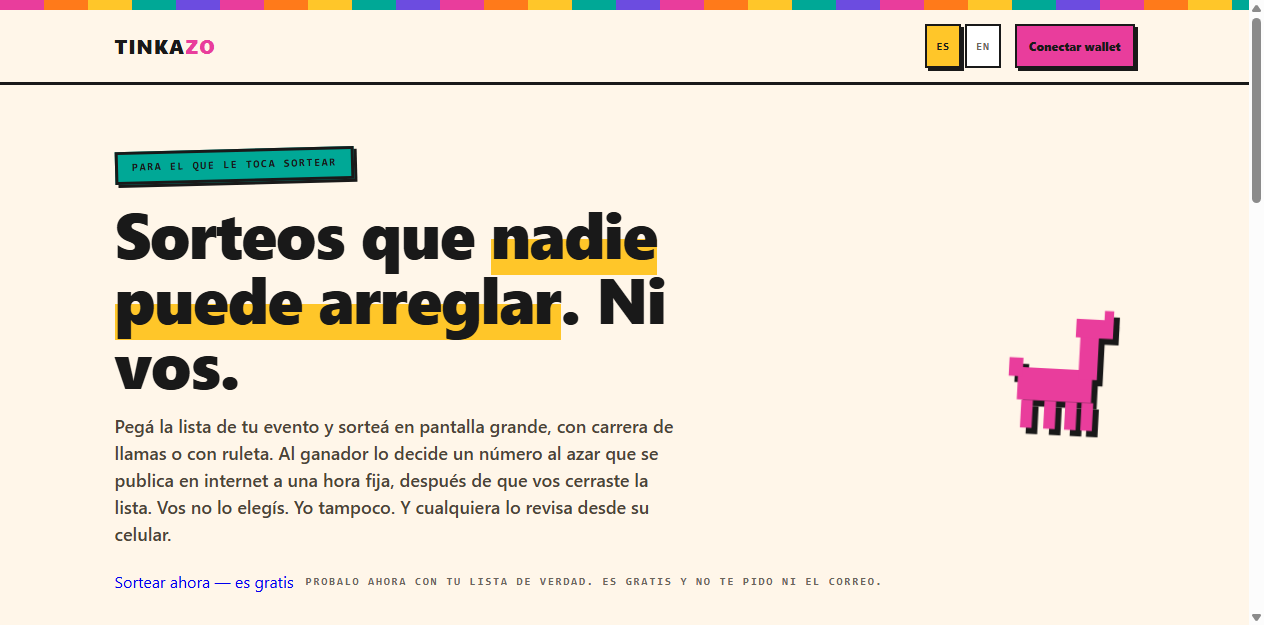
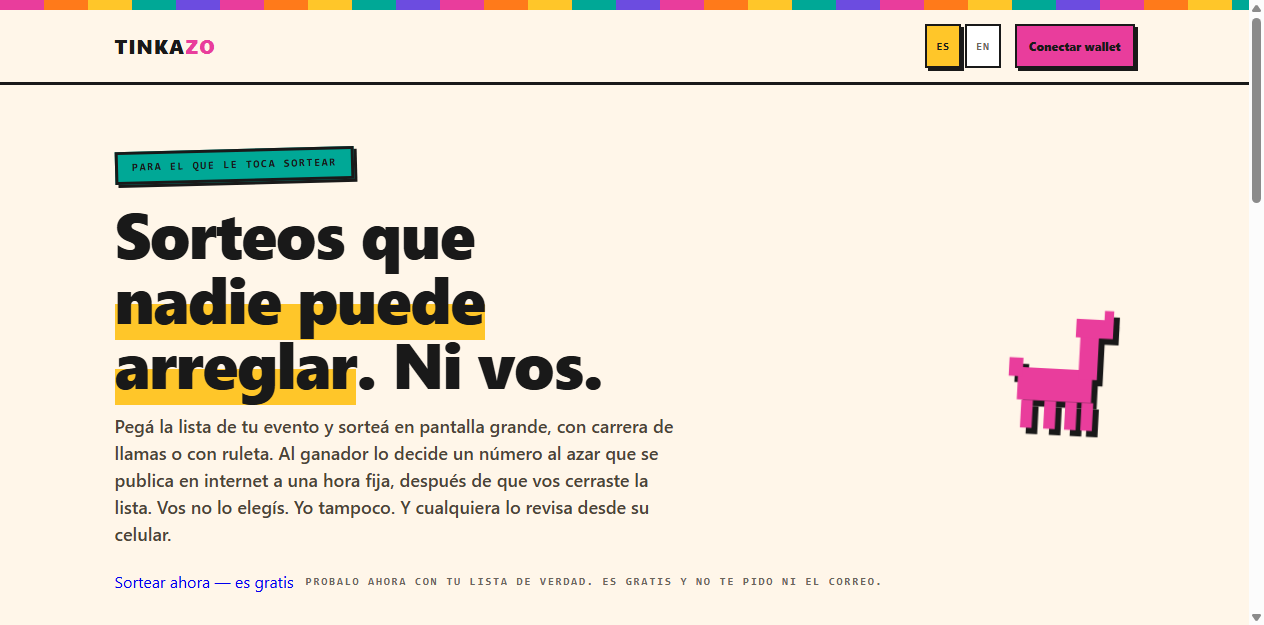
Sombra dura en los chips, animaciones reducidas y el aviso de voz
Los chips de nombre ahora llevan la sombra dura de la casa y esquinas
redondeadas. Esa sombra vivía en el CSS del sitio y no existía en ningún
juego: con una función en el andamiaje, los seis se ven del sitio a la vez.

Quien marcó en su sistema que las animaciones le hacen mal no tenía forma de
decirlo: el modo sin animaciones existía solo para el auditor. Ahora se
respeta la preferencia del sistema. El sorteo se hace igual y el ganador sale
igual, sin el show.

Y en la pantalla principal se avisa si la máquina tiene voz para el narrador
y cuál eligió. El momento de enterarse de que no hay voz no es con la sala
mirando.

CLAUDE.md al día: los seis juegos, el auditor y el comprobador de fuentes.

Changed region(s): [[0.0926, 0.3344, 0.5245, 0.6688]]

diff --git a/src/games/overlay.ts b/src/games/overlay.ts
@@ -70,7 +70,10 @@ export function registerSkip(fn: (() => void) | null): void {
  * auditor para comprobar el resultado sin esperar la animación.
  */
 export function mount(beacon: Beacon, done: () => void, onSkip: () => void): Stage | null {
-  if (instantMode) return null;
+  // `?instant=1` existe para el auditor. Esto es para alguien que marcó en su
+  // sistema que las animaciones lo marean, y que hasta ahora no tenía forma de
+  // decirlo. El sorteo igual se hace y el ganador igual sale.
+  if (instantMode || matchMedia("(prefers-reduced-motion: reduce)").matches) return null;
   const ov = $("stadium");
   const canvas = $<HTMLCanvasElement>("race-canvas");
   const c = canvas.getContext("2d");
@@ -149,20 +152,47 @@ export function mount(beacon: Beacon, done: () => void, onSkip: () => void): Sta
       const label = name.length > 18 ? name.slice(0, 17) + "…" : name;
       c.save();
       c.globalAlpha = alpha;
+      // El espaciado de letras en lienzo existe desde 2025. En un navegador
+      // viejo asignarlo no hace nada y el chip se ve igual, solo más apretado.
+      c.letterSpacing = "0.01em";
       c.font = `700 ${12 * k}px system-ui, sans-serif`;
       c.textAlign = "left";
       c.textBaseline = "alphabetic";
-      const tw = c.measureText(label).width;
-      const bw = tw + av + 18 * k;
+      const bw = c.measureText(label).width + av + 18 * k;
+
+      const round = typeof c.roundRect === "function";
+      c.beginPath();
+      if (round) c.roundRect(x - 4 * k, y - 14 * k, bw, 22 * k, 5 * k);
+      else c.rect(x - 4 * k, y - 14 * k, bw, 22 * k);
+      // La sombra dura de la casa, la misma que el CSS: sin desenfoque, porque
+      // el neobrutalismo no lo tiene. Hasta ahora vivía solo en la página y no
+      // existía en ningún juego.
+      c.shadowColor = INK;
+      c.shadowBlur = 0;
+      c.shadowOffsetX = 3 * k;
+      c.shadowOffsetY = 3 * k;
       c.fillStyle = dark ? "#f6efe2" : "#ffffff";
-      c.fillRect(x - 4 * k, y - 14 * k, bw, 22 * k);
+      c.fill();
+      c.shadowColor = "transparent";
+      c.shadowOffsetX = 0;
+      c.shadowOffsetY = 0;
       c.strokeStyle = INK;
       c.lineWidth = 2 * k;
-      c.strokeRect(x - 4 * k, y - 14 * k, bw, 22 * k);
+      c.stroke();
+
       const im = imageOf(name);
-      if (im.complete && im.naturalWidth) c.drawImage(im, x, y - 11 * k, av, av);
+      if (im.complete && im.naturalWidth) {
+        c.save();
+        c.beginPath();
+        if (round) c.roundRect(x, y - 11 * k, av, av, 3 * k);
+        else c.rect(x, y - 11 * k, av, av);
+        c.clip();
+        c.drawImage(im, x, y - 11 * k, av, av);
+        c.restore();
+      }
       c.fillStyle = INK;
       c.fillText(label, x + av + 6 * k, y + 3 * k);
+      c.letterSpacing = "0px";
       c.restore();
       return bw;
     },

diff --git a/src/main.ts b/src/main.ts
@@ -9,6 +9,27 @@ import { copySummary, draw, reverify, shareProof } from "./ui/draw";
 import { stadiumRace } from "./games/race";
 import { skipGame } from "./games/overlay";
 import { initWalletUI } from "./ui/wallet-ui";
+import { hasVoice, voiceName } from "./narrator";
+
+/**
+ * Avisa si la máquina tiene voz para el narrador, y cuál.
+ *
+ * El momento de enterarse no es con la sala mirando. Las voces del sistema
+ * tardan en aparecer, así que se reintenta una vez.
+ */
+function showVoiceNote(): void {
+  const paint = (): void => {
+    const el = document.getElementById("voice-note");
+    if (!el) return;
+    const on = hasVoice();
+    el.textContent = on ? `${t("voiceOn")} ${voiceName() ?? ""}` : t("voiceOff");
+    el.style.display = "block";
+  };
+  paint();
+  // `getVoices()` suele venir vacío en la primera llamada.
+  setTimeout(paint, 1200);
+  onLangChange(paint);
+}
 
 // `?theme=light|dark` fuerza el tema (capturas).
 const themeParam = params.get("theme");
@@ -67,6 +88,7 @@ function poseScene(): void {
 }
 
 renderNames();
+showVoiceNote();
 // Siempre se aplica el diccionario al cargar, también en español: si no, el
 // texto que se ve sale del markup y los dos archivos se separan sin que se note.
 setLang(params.get("lang") === "en" ? "en" : "es");

diff --git a/src/i18n.ts b/src/i18n.ts
@@ -57,6 +57,8 @@ export const T: Record<Lang, Dict> = {
     p1: "Participantes", p2: "Lista congelada", p3: "El sorteo",
     srcPaste: "Pegar lista", srcCsv: "Subir CSV", srcLuma: "Luma · pronto", srcMeetup: "Meetup · pronto",
     csvColumn: "¿Cuál columna tiene los nombres?",
+    voiceOn: "El narrador va a hablar con la voz:",
+    voiceOff: "Esta computadora no tiene voz en español instalada. El sorteo funciona igual, pero el narrador no habla.",
     freezeHint: "Hacen falta al menos dos nombres.",
     frozenOk: "Lista congelada ✓",
     csvRows: (n) => (n === 1 ? "1 fila en el archivo" : `${n} filas en el archivo`),
@@ -273,6 +275,8 @@ export const T: Record<Lang, Dict> = {
     p1: "Participants", p2: "Frozen list", p3: "The draw",
     srcPaste: "Paste list", srcCsv: "Upload CSV", srcLuma: "Luma · soon", srcMeetup: "Meetup · soon",
     csvColumn: "Which column has the names?",
+    voiceOn: "The narrator will speak with this voice:",
+    voiceOff: "This computer has no English voice installed. The draw works the same, but the narrator stays quiet.",
     freezeHint: "At least two names are needed.",
     frozenOk: "List frozen ✓",
     csvRows: (n) => (n === 1 ? "1 row in the file" : `${n} rows in the file`),

diff --git a/src/styles.css b/src/styles.css
@@ -268,6 +268,13 @@
   label.chip.live:focus-within { outline: 3px solid var(--ink); outline-offset: 3px; box-shadow: 0 0 0 6px var(--yellow); }
   /* Una huella de 64 caracteres desbordaba la tarjeta en celular. */
   .note { word-break: break-word; overflow-wrap: anywhere; }
+  /* El nombre del ganador, con borde de tinta. Sin `paint-order` el trazo se
+     pinta encima del relleno y se come la letra. */
+  .winner-name {
+    letter-spacing: -0.015em; text-wrap: balance;
+    -webkit-text-stroke: 2px var(--ink); paint-order: stroke fill;
+  }
+  h1, .commentary { text-wrap: balance; }
 
   /* La tarjeta de "¿por qué se llama así?", pegada debajo del ganador. Se lee
      como una estampilla puesta a mano, no como un banner. */

diff --git a/src/games/race.ts b/src/games/race.ts
@@ -32,7 +32,9 @@ export function stadiumRace(
   themeId: ThemeId = "andes",
 ): void {
   const skin = THEMES[themeId];
-  if (instantMode) {
+  // Igual que los juegos nuevos: `?instant=1` es del auditor, y la preferencia
+  // del sistema es de una persona a la que las animaciones le hacen mal.
+  if (instantMode || matchMedia("(prefers-reduced-motion: reduce)").matches) {
     done();
     return;
   }

diff --git a/index.html b/index.html
@@ -73,6 +73,7 @@
         <button class="primary" id="btn-freeze" data-i="freeze">Congelar lista</button>
       </div>
       <p class="note" id="freeze-hint" data-i="freezeHint">Hacen falta al menos dos nombres.</p>
+      <p class="note" id="voice-note" style="display:none"></p>
       <p class="txstatus" id="seal-status" style="display:none"></p>
       <div class="names" id="names"></div>
     </div>

diff --git a/CLAUDE.md b/CLAUDE.md
@@ -2,9 +2,9 @@
 
 ## Qué es
 
-Sorteos verificables para comunidades. La lista se sella con SHA-256 antes de que exista la semilla; la semilla es una ronda futura de drand quicknet cuya firma BLS verifica un contrato Soroban en Stellar; la selección es determinista y cualquiera la recomputa. El show (carrera de llamas, ruleta) es presentación, no mecanismo.
+Sorteos verificables para comunidades. La lista se sella con SHA-256 antes de que exista la semilla; la semilla es una ronda futura de drand quicknet cuya firma BLS verifica un contrato Soroban en Stellar; la selección es determinista y cualquiera la recomputa. El show es presentación, no mecanismo: seis juegos, y ninguno decide nada.
 
-Sitio en producción: https://tinkazo.vercel.app (hoy el demo v1, un solo `index.html`).
+Sitio en producción: https://tinkazo.vercel.app
 
 ## Documentos que mandan
 
@@ -13,6 +13,8 @@ Sitio en producción: https://tinkazo.vercel.app (hoy el demo v1, un solo `index
 - [docs/prd.md](docs/prd.md) — requisitos (FR/NFR) y alcance.
 - [docs/epics.md](docs/epics.md) — historias con criterios de aceptación y estado.
 - [docs/deployments.md](docs/deployments.md) — direcciones del contrato por red y costos medidos.
+- [docs/juegos.md](docs/juegos.md) — el contrato que cumple todo juego y las 15 comprobaciones del auditor.
+- [docs/marca.md](docs/marca.md) — paleta con los contrastes medidos, tipografía y cómo se escribe.
 - [docs/vectors.json](docs/vectors.json) — vectores de prueba compartidos por Rust y TypeScript.
 
 ## Reglas del repositorio
@@ -44,7 +46,15 @@ pnpm preview &      # sirve dist/ en :4173
 node scripts/smoke.mjs "http://localhost:4173/?demo=wheel&instant=1&lead=3"
 ```
 
-Parámetros de URL útiles: `?lang=en`, `?theme=light|dark`, `?demo=race|wheel` (carga el ejemplo, sella y sortea), `?instant=1` (sin animaciones), `?lead=N` (segundos hasta la ronda objetivo, mínimo 3; solo modo libre), `?pose=1` (escena fija del estadio).
+Parámetros de URL útiles: `?lang=en`, `?theme=light|dark`, `?demo=stellar|ledger|pasanaku|race|rockets|wheel` (carga el ejemplo, sella y sortea), `?instant=1` (sin animaciones), `?lead=N` (segundos hasta la ronda objetivo, mínimo 3; solo modo libre), `?pose=1` (escena fija del estadio).
+
+```bash
+# Auditor de juegos: 15 comprobaciones por juego, contra drand de verdad
+node scripts/audit-game.mjs <juego> --base http://localhost:4173
+
+# Las fuentes de las tarjetas de historia siguen vivas
+pnpm check:lore
+```
 
 En la máquina del autor (Windows sin MSVC) el toolchain es `stable-x86_64-pc-windows-gnu`; `cargo` está en `~/.cargo/bin` y `stellar.exe` en `C:\Program Files (x86)\Stellar CLI\`.
 
@@ -56,8 +66,10 @@ En la máquina del autor (Windows sin MSVC) el toolchain es `stable-x86_64-pc-wi
 
 ```
 index.html          Entrada de Vite (markup del sitio)
-src/                Frontend TypeScript: main, i18n, state, protocol/ (canonical, select, drand), ui/, games/
-scripts/            deploy.sh (contrato) y smoke.mjs (sitio)
+verificar.html      Página de verificación, solo lectura
+src/                Frontend TypeScript: main, i18n, state, narrator, protocol/, stellar/, ui/, games/
+src/games/overlay.ts  Andamiaje de los juegos: estadio, azar sembrado, chips, saltar, desmontaje
+scripts/            deploy.sh (contrato), smoke.mjs (sitio), audit-game.mjs, check-lore.mjs
 contracts/raffle/   Contrato Soroban tinkazo-raffle (lib, drand, select, test)
 docs/               PRD, arquitectura, protocolo, épicas, despliegues, vectores, capturas
 .claude/skills/     Skills para construir en Stellar
